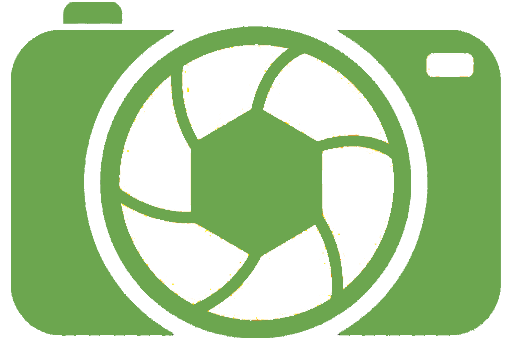
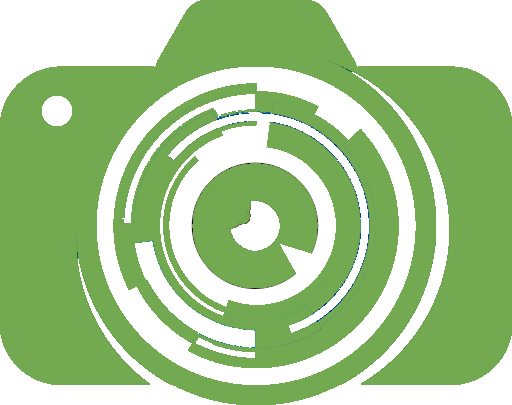
Zone userData
+ Modification des icones

diff --git a/sources/Vues/ZoneUserdataForm.ui.qml b/sources/Vues/ZoneUserdataForm.ui.qml
@@ -4,30 +4,31 @@ import "../Components"
 
 Item {
     width: 400
-    height: 500
+    height: 400
     property alias userDataZone: userDataZone
-    property alias chipArtist: chipArtist
-    property alias chipDescription: chipDescription
-    property alias chipWriter: chipWriter
+    property alias chipKeyword1: chipKeyword1
+    property alias chipKeyword2: chipKeyword2
+    property alias chipKeyword3: chipKeyword3
 
     Zone {
         id: userDataZone
         anchors.fill: parent
         txtZone: qsTr("Tags")
+        iconZone: "qrc:/Images/icon-tag.png"
 
         ColumnLayout {
             Chips {
-                id: chipArtist
+                id: chipKeyword1
                 editable: true
                 deletable: true
             }
             Chips {
-                id: chipDescription
+                id: chipKeyword2
                 editable: true
                 deletable: true
             }
             Chips {
-                id: chipWriter
+                id: chipKeyword3
                 editable: true
                 deletable: true
             }

diff --git a/sources/Vues/ZoneCameraForm.ui.qml b/sources/Vues/ZoneCameraForm.ui.qml
@@ -2,20 +2,19 @@ import QtQuick
 import QtQuick.Layouts
 import "../Components"
 
-
-
 Item {
     width: 400
     property alias cameraZone: cameraZone
     property alias chipModel: chipModel
     property alias chipMaker: chipMaker
     property alias chipFocale: chipFocale
+    property alias chipSpeed: chipSpeed
 
     Zone {
         id: cameraZone
         anchors.fill: parent
         iconZone: "qrc:/Images/camera.png"
-        txtZone: qsTr("Tags générés par l'appareil<br>photo au moment de la prise de vue.")
+        txtZone: qsTr("Tags générés par l'appareil photo<br>au moment de la prise de vue.")
 
         ColumnLayout {
             Chips {
@@ -33,9 +32,11 @@ Item {
                 editable: false
                 deletable: false
             }
+            Chips {
+                id: chipSpeed
+                editable: false
+                deletable: false
+            }
         }
     }
-
 }
-
-

diff --git a/sources/Controllers/ZoneUserdata.qml b/sources/Controllers/ZoneUserdata.qml
@@ -1,14 +1,14 @@
 import QtQuick
 import "../Vues"
 
-// Controlleur
+// Controlleur pour la zone des keywords
 ZoneUserdataForm {
 
-    // On détermine le contenu des champs ici, mais ça marche aussi si on le fait dans la vue.
+    // On détermine le contenu des chips ici
 
-    chipArtist.content:      "tabbedPage.selectedData.artist"
-    chipDescription.content: "tabbedPage.selectedData.description"
-    chipWriter.content:      "tabbedPage.selectedData.descriptionWriter"
+    chipKeyword1.content: "keyword 1"
+    chipKeyword2.content: "keyword 2"
+    chipKeyword3.content: "keyword 3"
 
 }
 

diff --git a/sources/Vues/SettingsPopupForm.ui.qml b/sources/Vues/SettingsPopupForm.ui.qml
@@ -6,7 +6,7 @@ import QtCore
 import "../Components"
 
 Popup {
-    id: settingsWindow
+    id: settingsForm
     width: 520
     height: 720
     property alias buttonClose: buttonClose
@@ -156,7 +156,7 @@ Popup {
                 }
                 ComboBox {
                     id: tagLanguages
-                    width: textFieldHomecity.width
+                    width: 200
                     height: 30
                     model: ["English", "System language"]
                 }

diff --git a/sources/main.qml b/sources/main.qml
@@ -51,6 +51,7 @@ Window {
     About { id: about }
     Credits { id: creditsPage}
     RescanWarning { id: rescanWarning}
+    SettingsPopup { id: settingsPopup}
     // ----------------------------------------------------------------
     // Modèles de données: Liste des fichiers du dossier
     // ----------------------------------------------------------------

diff --git a/sources/Components/TiMenuBar.qml b/sources/Components/TiMenuBar.qml
@@ -18,8 +18,6 @@ MenuBar{
         title: qsTr("Réglages")
         MenuItem  { text: qsTr("Configuration");
             onClicked: {
-                var component = Qt.createComponent("../Controllers/SettingsWindow.qml");
-                var settingsPopup = component.createObject(window);
                 settingsPopup.open();
             }
         }

diff --git a/sources/Controllers/ZoneCamera.qml b/sources/Controllers/ZoneCamera.qml
@@ -8,7 +8,8 @@ ZoneCameraForm {
 
     chipModel.content:  tabbedPage.selectedData.camModel
     chipMaker.content:  tabbedPage.selectedData.make
-    chipFocale.content: ""
+    chipFocale.content: "f5.6"
+    chipSpeed.content: "1/100"
 
 }
 

diff --git a/sources/Controllers/SettingsPopup.qml b/sources/Controllers/SettingsPopup.qml
@@ -4,7 +4,7 @@ import "../Vues"
 
 
 // Controleur de la fenetre des Settings
-SettingsWindowForm {
+SettingsPopupForm {
 
     Component.onCompleted: {
         show();
